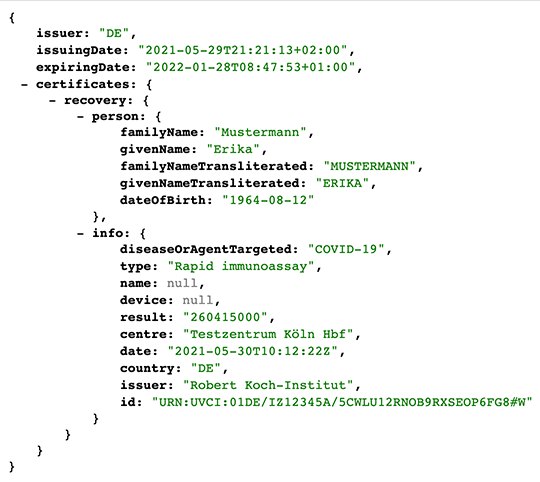
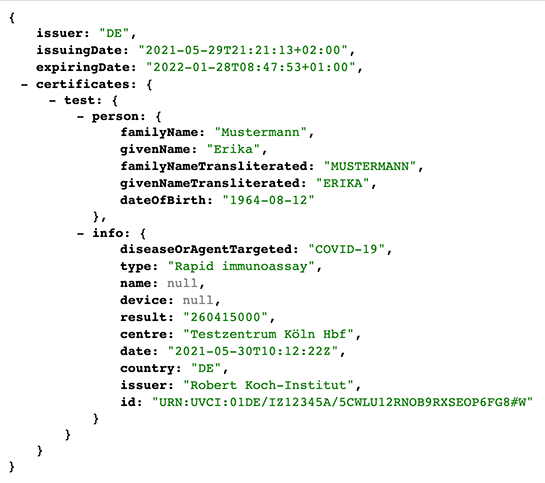
[BUGFIX] Fix key used for test certificates

Changed region(s): [[0.0593, 0.0622, 0.8, 0.4357], [0.1481, 0.4357, 0.9778, 0.8402]]

diff --git a/src/Decoder.php b/src/Decoder.php
@@ -56,7 +56,7 @@ class Decoder
                 ],
             ];
         } elseif (array_key_exists('t', $certificate)) {
-            $data['certificates']['recovery'] = [
+            $data['certificates']['test'] = [
                 'person' => $person,
                 'info' => [
                     'diseaseOrAgentTargeted' => $this->getDiseaseOrAgentTargeted($certificate['t'][0]['tg'] ?? ''),
